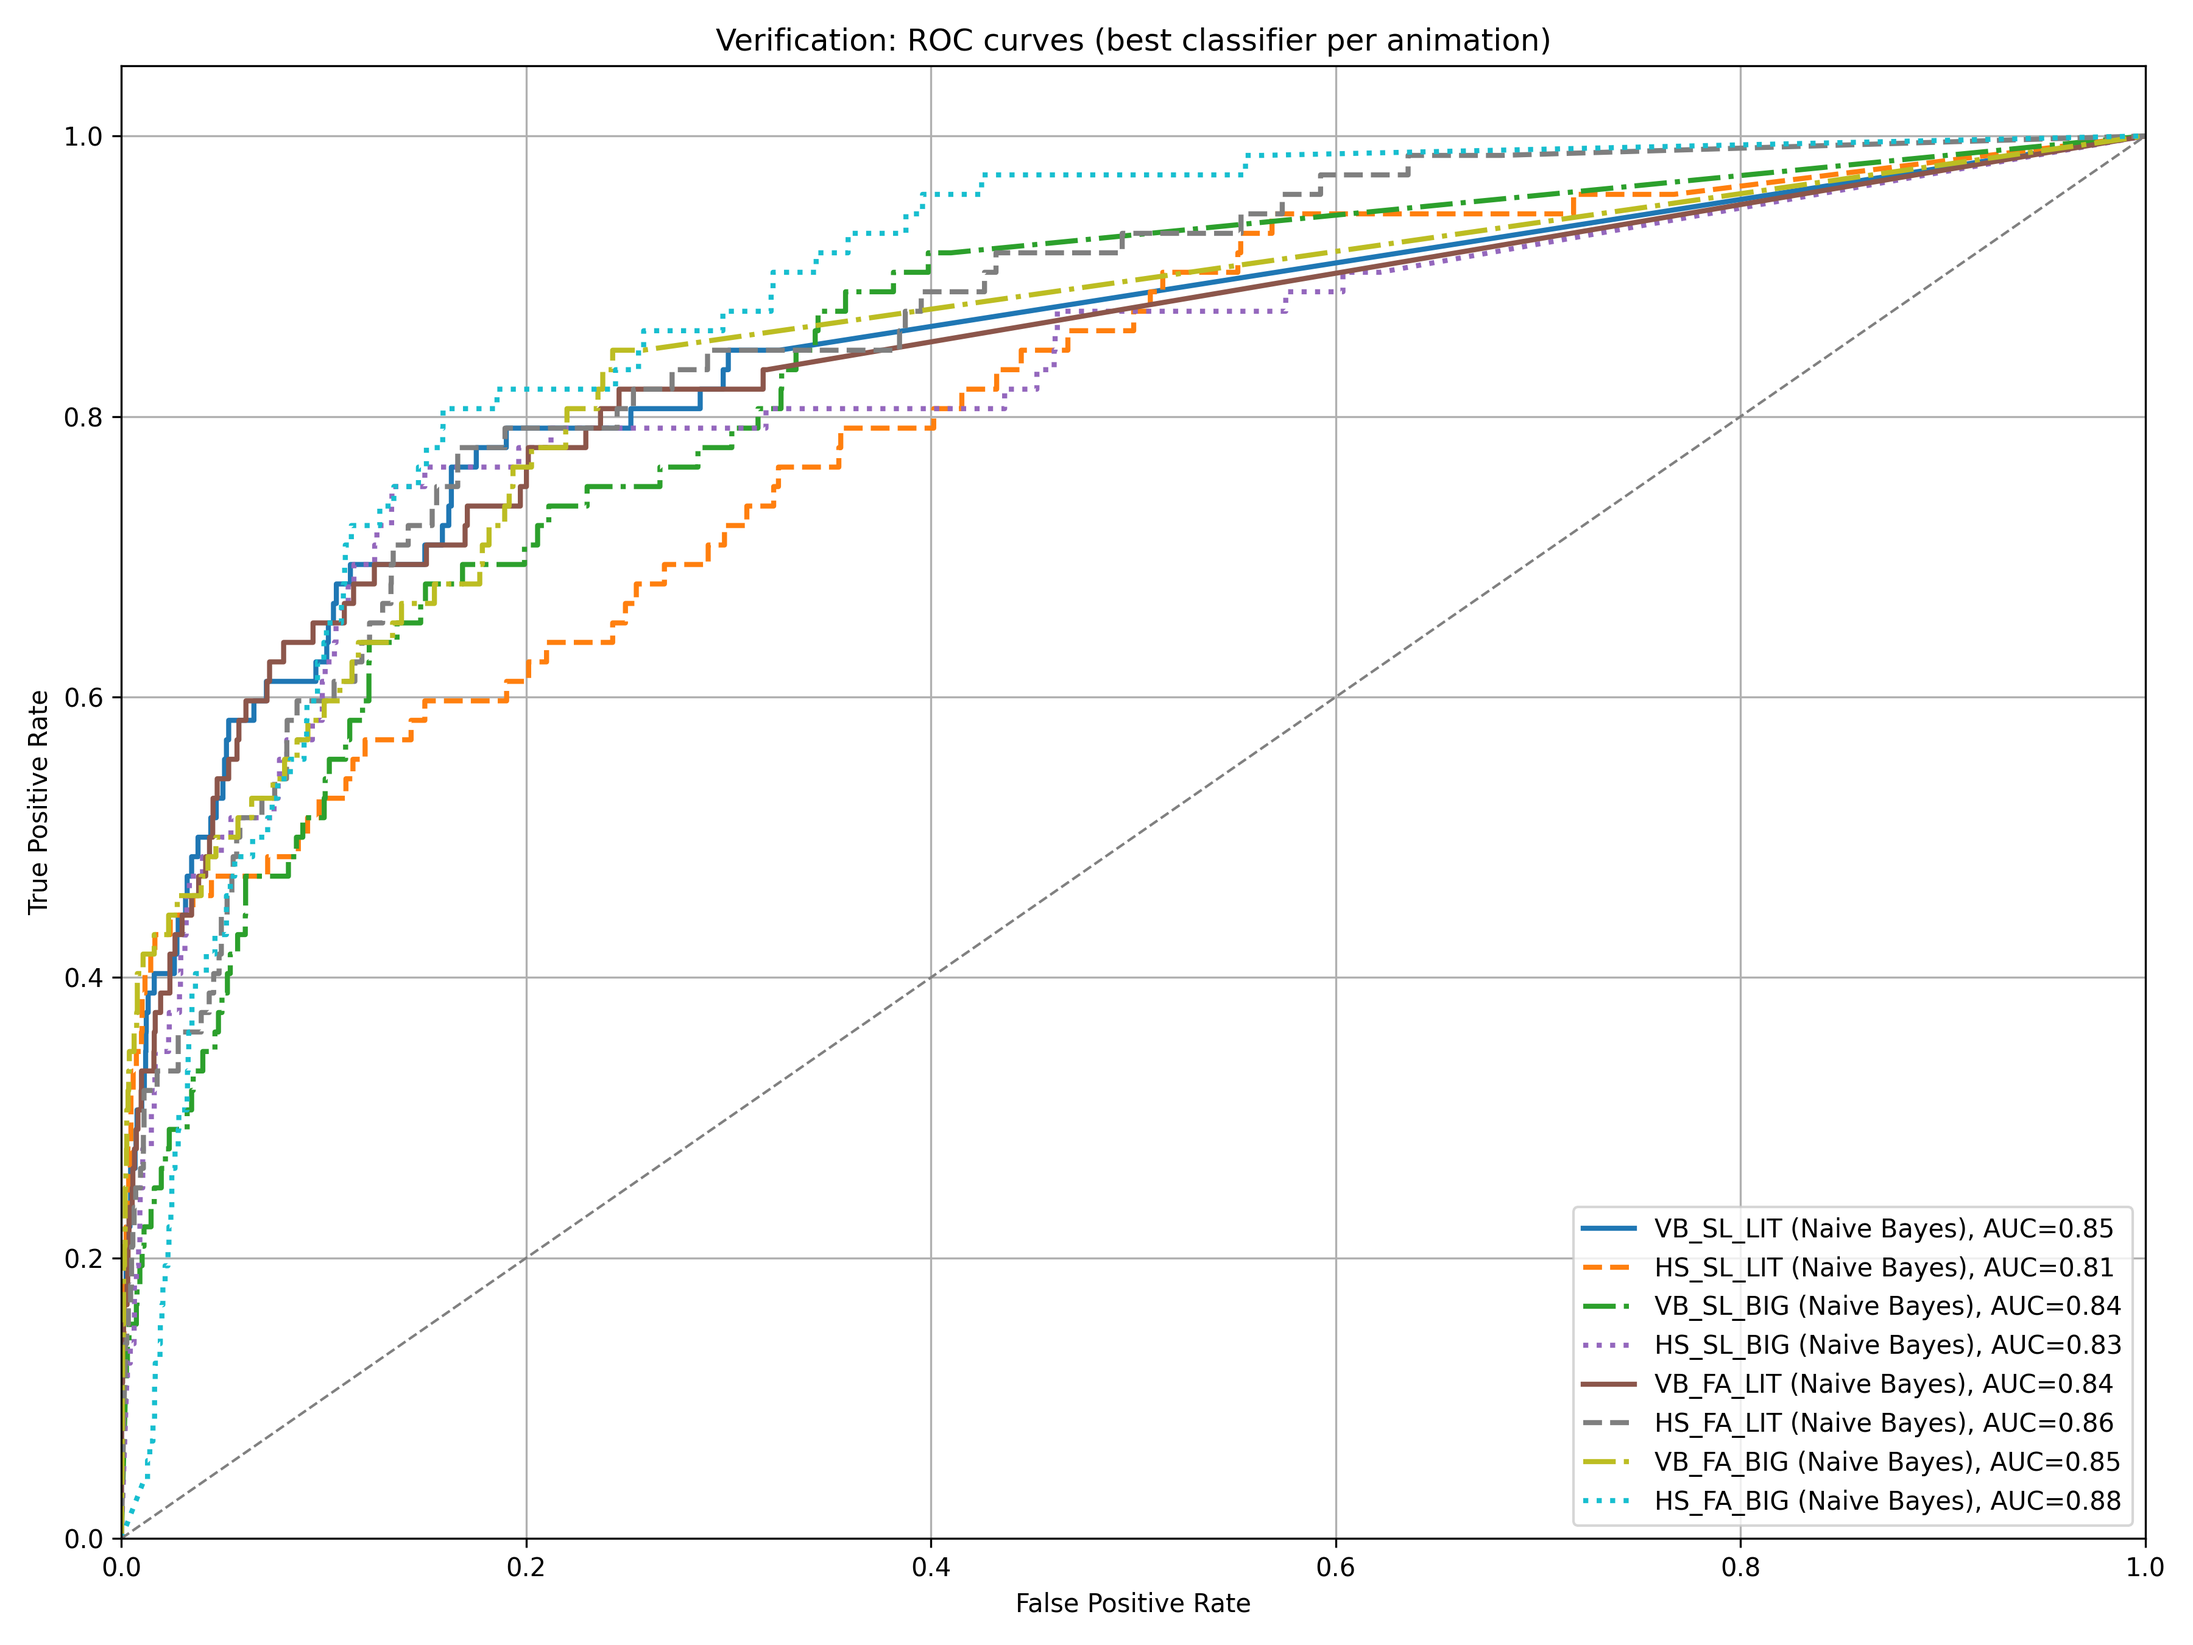
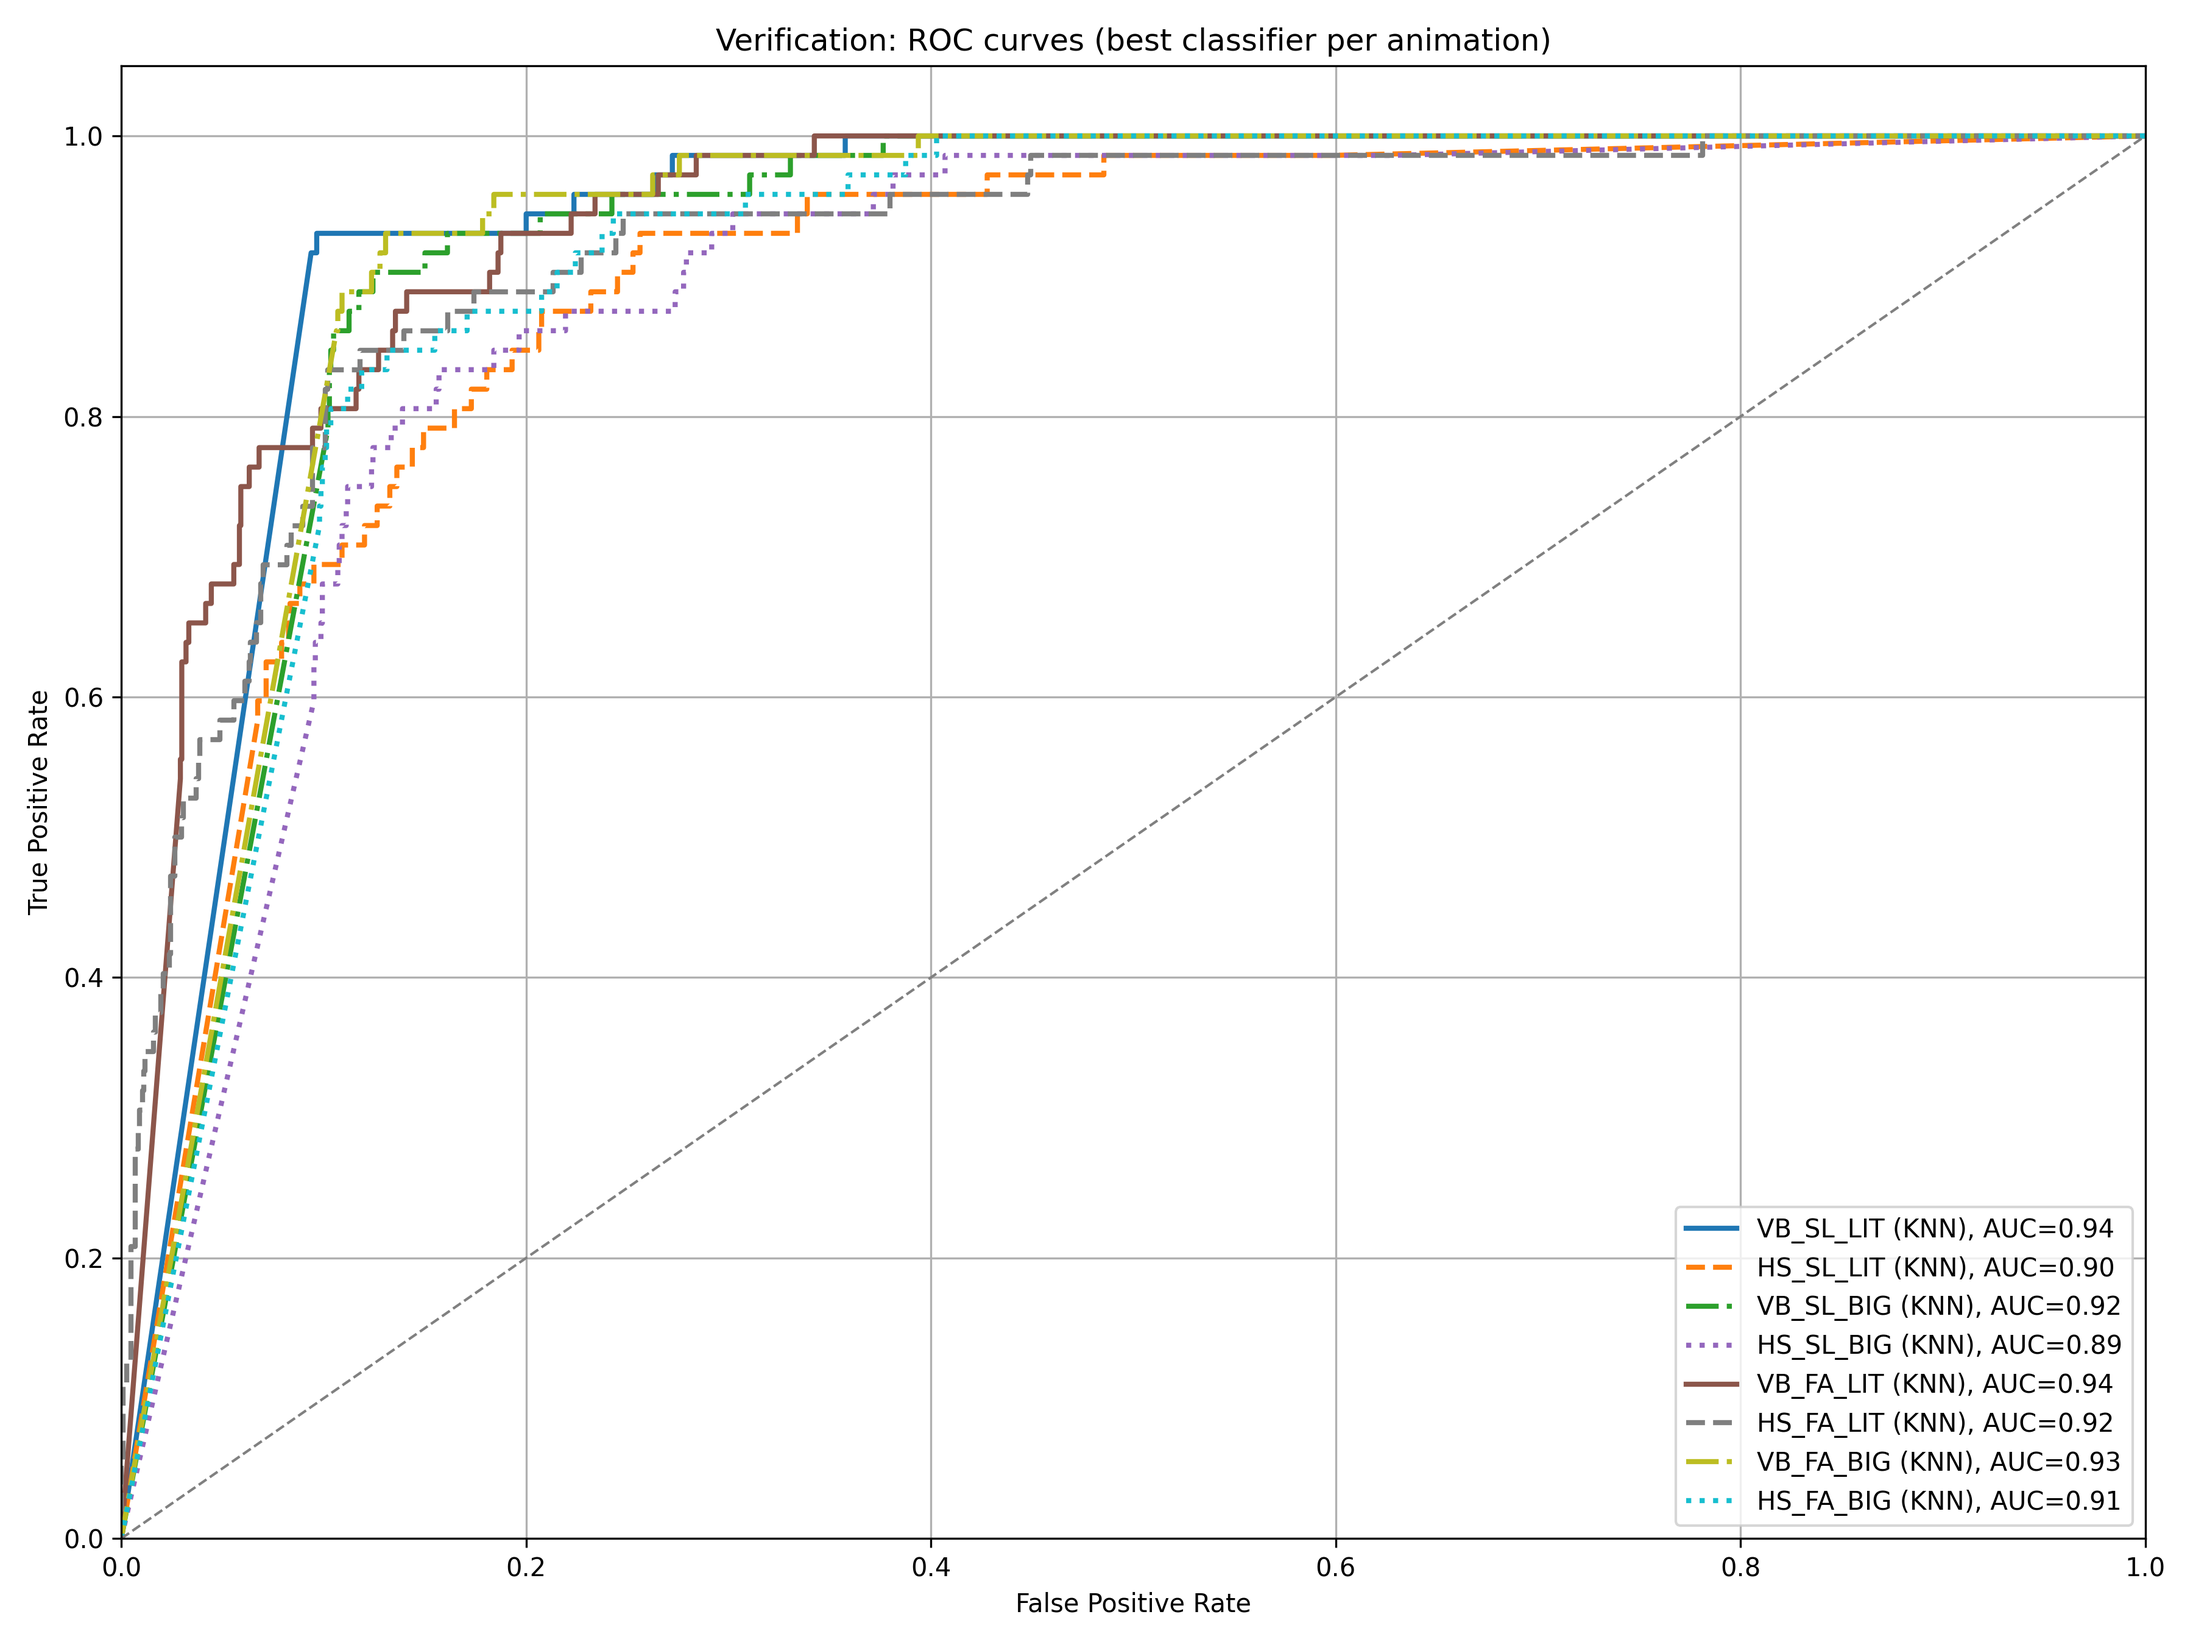
verification_single_st

diff --git a/Programs/Machine_Learning/Verification/Verification_single_intruder_st.py b/Programs/Machine_Learning/Verification/Verification_single_intruder_st.py
@@ -148,21 +148,34 @@ def prepare_open_set_person_data(dataset, person_data, train_ids, test_ids, seed
 
     # Train set
     train_genuine = person_data[person_data['session_id'].isin(['S1', 'S2'])]
-    impostors_train_pool = dataset[(dataset['tester_id'].isin(train_ids)) & (dataset['tester_id'] != tester_id) & (dataset['session_id'].isin(['S1', 'S2']))]
-
-    impostors_train = impostors_train_pool.sample(n=len(train_genuine), random_state=seed, replace=False)
+    impostors_train_pool = dataset[
+        (dataset['tester_id'].isin(train_ids)) &
+        (dataset['tester_id'] != tester_id) &
+        (dataset['session_id'].isin(['S1', 'S2']))
+    ]
+    impostors_train = impostors_train_pool.sample(
+        n=len(train_genuine), random_state=seed, replace=False
+    )
 
     X_train = pd.concat([train_genuine[features_cols], impostors_train[features_cols]], ignore_index=True)
     y_train = np.array([1]*len(train_genuine) + [0]*len(impostors_train))
 
     # Test set
     test_genuine = person_data[person_data['session_id'] == 'S3']
-    impostors_test = dataset[(dataset['tester_id'].isin(test_ids)) & (dataset['session_id'] == 'S3')]
+    impostors_test_pool = dataset[
+        (dataset['tester_id'].isin(test_ids)) &
+        (dataset['session_id'] == 'S3')
+    ]
+    # Balance test impostors to have same number as genuine
+    impostors_test = impostors_test_pool.sample(
+        n=len(test_genuine), random_state=seed, replace=False
+    )
 
     X_test = pd.concat([test_genuine[features_cols], impostors_test[features_cols]], ignore_index=True)
     y_test = np.array([1]*len(test_genuine) + [0]*len(impostors_test))
 
     return X_train, y_train, X_test, y_test
+
 
 
 def compute_eer(y_true, y_score):
@@ -217,8 +230,57 @@ def get_classifiers():
                 ('scaler', MinMaxScaler()),
                 ('nb', GaussianNB())
             ])
+        ),
+        (
+            "KNN",
+            Pipeline([
+                ('imputer', SimpleImputer(strategy='mean')),
+                ('scaler', MinMaxScaler()),
+                ('knn', KNeighborsClassifier())
+            ])
+        ),
+        (
+            "Logistic Regression",
+            Pipeline([
+                ('imputer', SimpleImputer(strategy='mean')),
+                ('scaler', MinMaxScaler()),
+                ('logreg', LogisticRegression(max_iter=1000, random_state=0))
+            ])
+        ),
+        (
+            "NuSVC",
+            Pipeline([
+                ('imputer', SimpleImputer(strategy='mean')),
+                ('scaler', MinMaxScaler()),
+                ('nusvc', NuSVC())
+            ])
+        ),
+        (
+            "Random Forest",
+            Pipeline([
+                ('imputer', SimpleImputer(strategy='mean')),
+                ('scaler', MinMaxScaler()),
+                ('rf', RandomForestClassifier(random_state=0))
+            ])
+        ),
+        (
+            "SVC",
+            Pipeline([
+                ('imputer', SimpleImputer(strategy='mean')),
+                ('scaler', MinMaxScaler()),
+                ('svc', SVC())
+            ])
+        ),
+        (
+            "MLP",
+            Pipeline([
+                ('imputer', SimpleImputer(strategy='mean')),
+                ('scaler', MinMaxScaler()),
+                ('mlp', MLPClassifier(max_iter=4000, random_state=0))
+            ])
         )
     ]
+
 
 
 def update_roc_data(clf_name, animation, y_true, y_score, eer):
